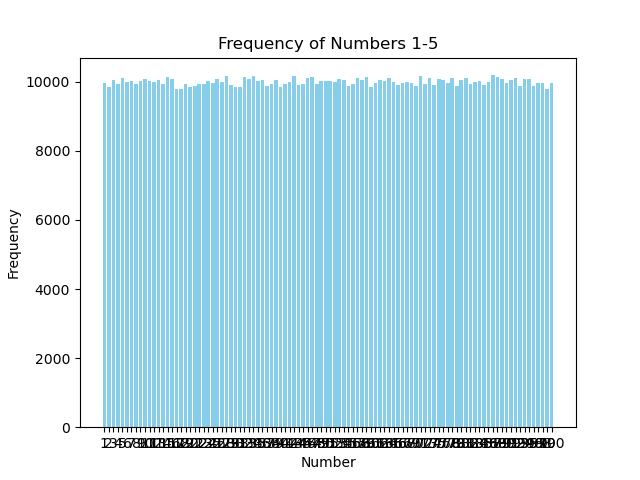
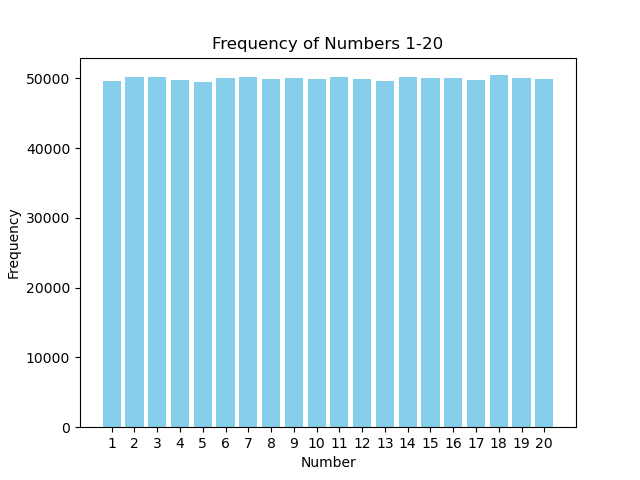
lets you pick max: version2

diff --git a/Scripts/randomness.py b/Scripts/randomness.py
@@ -1,14 +1,32 @@
 import numpy as np
+import sys
 import matplotlib.pyplot as plt
 
-random_numbers = np.random.randint(1, 101, size=1000000)
+def generate_plot(size):
+    random_numbers = np.random.randint(1, size + 1, size=1000000)
 
-unique_numbers, counts = np.unique(random_numbers, return_counts=True)
+    unique_numbers, counts = np.unique(random_numbers, return_counts=True)
 
-plt.bar(unique_numbers, counts, color='skyblue')
-plt.title('Frequency of Numbers 1-100')
-plt.xlabel('Number')
-plt.ylabel('Frequency')
-plt.xticks(unique_numbers)
-plt.savefig('number_frequency_plot.png')
-plt.close()
+    plt.bar(unique_numbers, counts, color='skyblue')
+    plt.title(f'Frequency of Numbers 1-{size}')
+    plt.xlabel('Number')
+    plt.ylabel('Frequency')
+    plt.xticks(unique_numbers)
+    plt.savefig('number_frequency_plot.png')
+    plt.close()
+
+if __name__ == "__main__":
+    # Check if exactly one argument (size) is provided
+    if len(sys.argv) != 2:
+        print("Usage: python script_name.py <size>")
+        sys.exit(1)
+
+    try:
+        size = int(sys.argv[1])  # Convert the argument to an integer
+        if size <= 0:
+            raise ValueError("Size must be a positive integer")
+    except ValueError:
+        print("Error: Size must be a positive integer")
+        sys.exit(1)
+
+    generate_plot(size)
